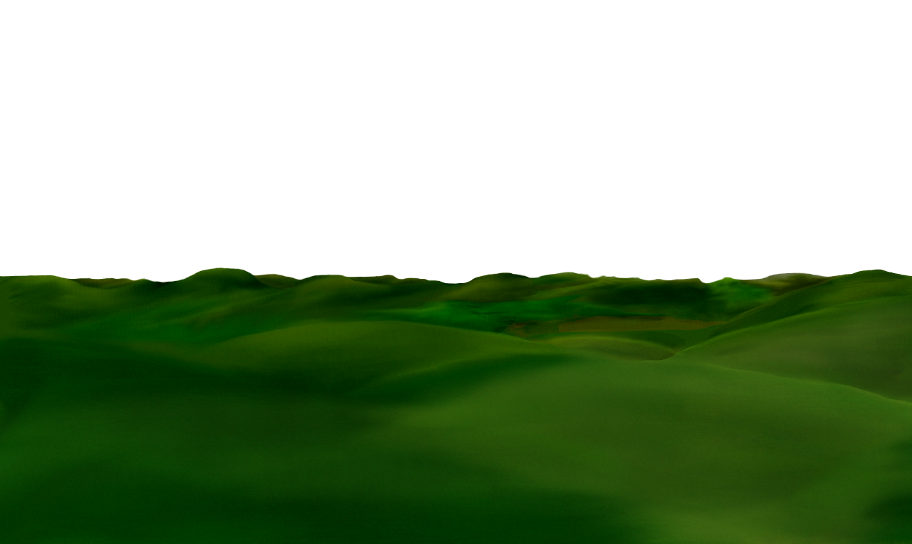
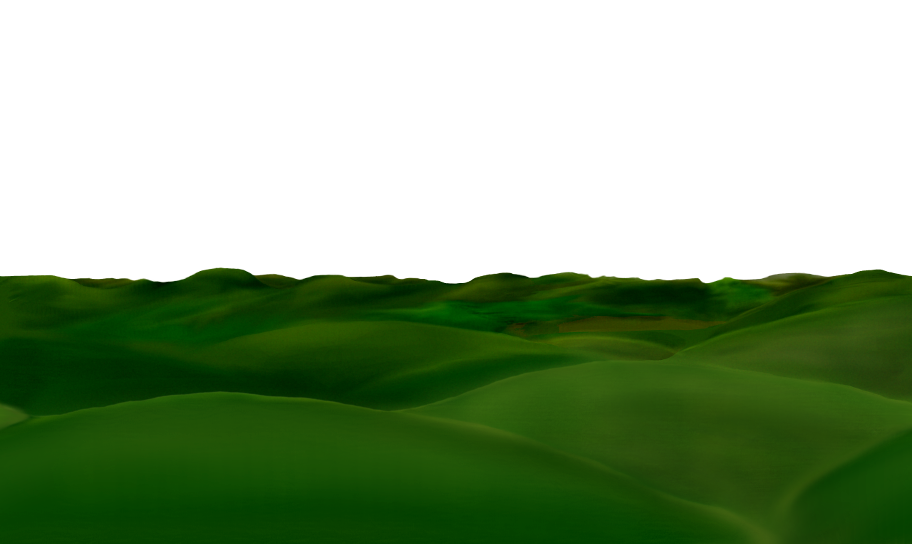
Some changes on the background

diff --git a/js/resources.js b/js/resources.js
@@ -11,7 +11,6 @@ define([], function() {
 		// Background
 		{name: 'sky', type: 'image', src: '/game-off-2013/assets/sky.png'},
 		{name: 'ground', type: 'image', src: '/game-off-2013/assets/ground.png'},
-		{name: 'foreground', type: 'image', src: '/game-off-2013/assets/foreground.png'},
 		{name: 'fog', type: 'image', src: '/game-off-2013/assets/fog.png'},
 		{name: 'clouds', type: 'image', src: '/game-off-2013/assets/clouds.png'},
 		{name: 'sun', type: 'image', src: '/game-off-2013/assets/sun.png'},
